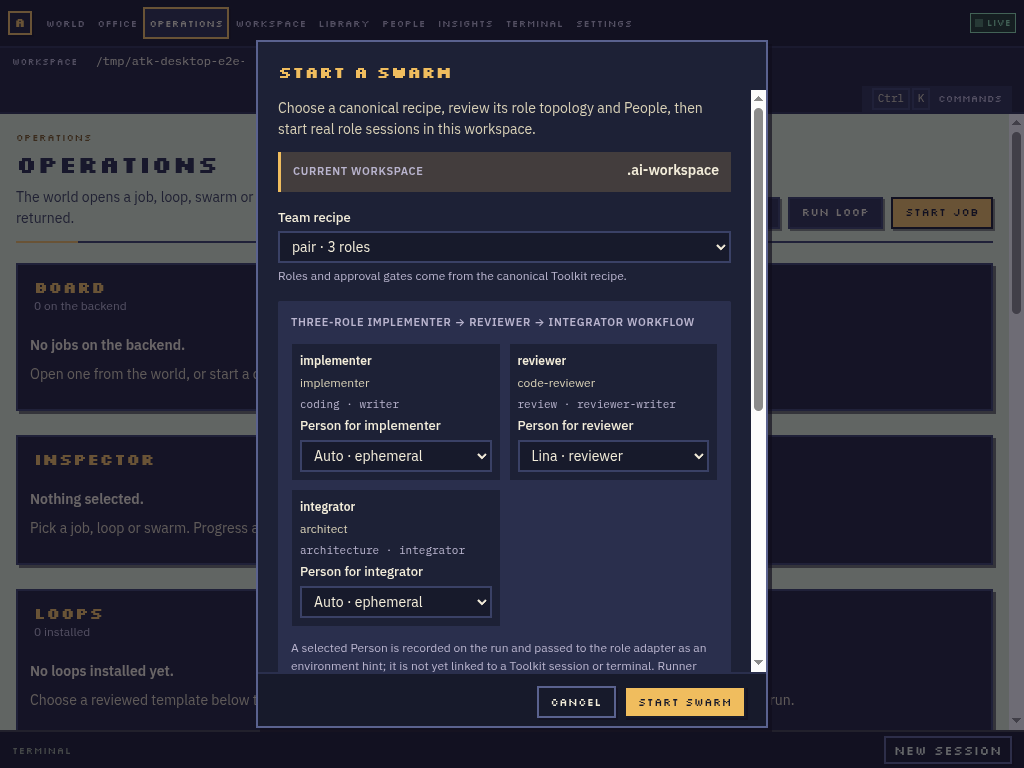
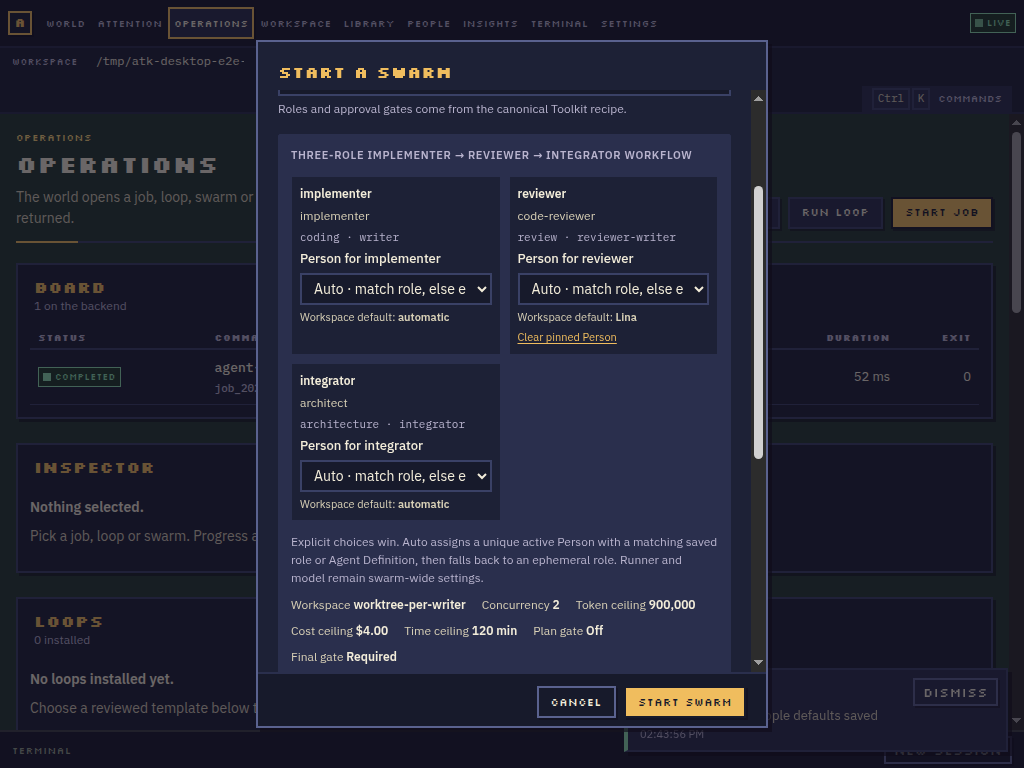
docs(desktop): refresh swarm People preference evidence (#1450)

diff --git a/CHANGELOG.md b/CHANGELOG.md
@@ -44,6 +44,7 @@ and this project adheres to [Semantic Versioning](https://semver.org/spec/v2.0.0
 
 ### Changed
 
+- The Desktop workflow ledger now records the People-by-role default editor and refreshed, reviewed compact/large swarm-start screenshots; remaining runtime-identity and World-projection gaps stay explicit.
 - Shared Files now has a readable sorting-depot landmark, while project Files
   stays a small filing desk inside the house; Settings now has its own rune-dial
   tower silhouette in the valley.
